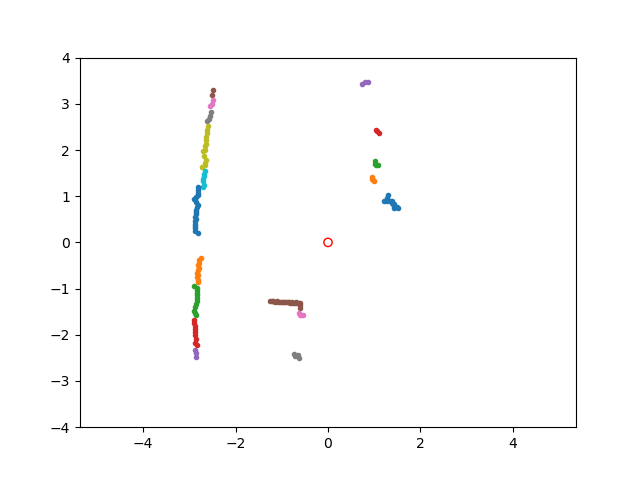
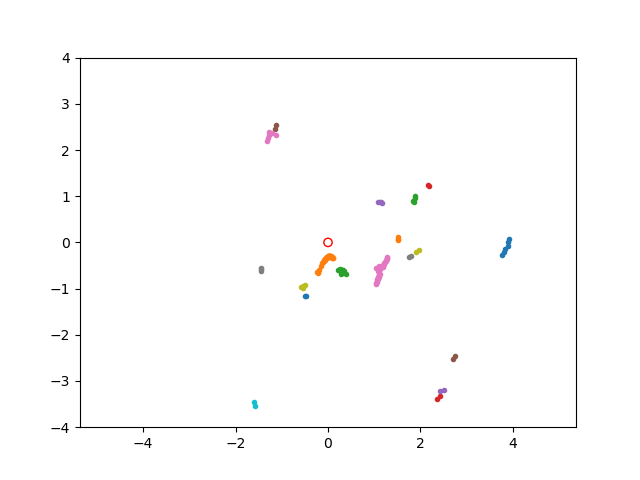
🫨

diff --git a/src/group31_pkg/src/navigation_node.py b/src/group31_pkg/src/navigation_node.py
@@ -3,7 +3,7 @@ import numpy as np
 import matplotlib.pyplot as plt
 from rclpy.node import Node
 from message_filters import ApproximateTimeSynchronizer, Subscriber
-from avai_messages.msg import Motors, Motor
+from avai_messages.msg import Motors, Motor, Position
 from sensor_msgs.msg import LaserScan
 
 
@@ -17,22 +17,24 @@ class NavigationNode(Node):
         ts = ApproximateTimeSynchronizer([self.motor_subscription, self.lidar_subscription], queue_size=10, slop=0.1)
         ts.registerCallback(self.drive)
         
-        self.position_publisher = self.create_publisher(Motors, '/motor_velocity', 10)
+        self.motor_publisher = self.create_publisher(Motors, '/motor_velocity', 10)
+        
+        self.position_publisher = self.create_publisher(Position, '/position', qos_profile=rclpy.qos.qos_profile_sensor_data)
         
         self.WHEEL_DISTANCE = 160 #mm
         self.WHEEL_RADIUS = 33 #mm
         self.NUM_TICKS = 4096
-        self.LAMBDA = 40
-        self.LAMBDA_TAR = 1.0
+        self.LAMBDA = 10
+        self.LAMBDA_TAR = 2.5
         
-        self.MAX_VELOCITY = 255
+        self.MAX_VELOCITY = 120
         self.TARGET_RADIUS = 25
         self.TARGET_X = 500
         self.TARGET_Y = 0
         
         self.x = 0
         self.y = 0
-        self.phi = np.pi/2
+        self.phi = 0
         
         self.x_all = []
         self.y_all = []
@@ -104,14 +106,16 @@ class NavigationNode(Node):
     
     
     def getVelocity(self, deltaPhi):
-        velocity = (deltaPhi * (self.WHEEL_DISTANCE/2))/16
+        velocity = (deltaPhi * 0.5 * self.WHEEL_DISTANCE)/self.CURRENT_TIME_STEP
         if np.abs(self.LAMBDA) >= self.MAX_VELOCITY:
             return 0
         elif velocity > self.MAX_VELOCITY - self.LAMBDA:
             return self.MAX_VELOCITY - self.LAMBDA
         elif velocity < -self.MAX_VELOCITY + self.LAMBDA:
             return -self.MAX_VELOCITY + self.LAMBDA
-        return velocity
+        
+        self.v_l = max(int(velocity+self.LAMBDA),0)
+        self.v_r = max(int(-velocity+self.LAMBDA),0)
     
        
     def setVelocity(self, v_l, v_r):
@@ -120,10 +124,11 @@ class NavigationNode(Node):
         """
         new_motor_command = Motors()
         new_motor_command.motors = [
-            Motor(position=1, velocity=int(v_l)), 
-            Motor(position=1, velocity=int(v_r))
+            Motor(position=1, velocity=v_l), 
+            Motor(position=1, velocity=v_r)
         ]
-        self.publisher_.publish(new_motor_command)
+        #self.get_logger().info(f'Published velocities')
+        self.motor_publisher.publish(new_motor_command)
 
 
     def updateMovement(self):
@@ -140,27 +145,40 @@ class NavigationNode(Node):
         self.TOTAL_LEFT_MOVED = self.LEFT_MOVED
         left_now_moved = left_now_ticks * ((2*np.pi*self.WHEEL_RADIUS)/self.NUM_TICKS)
         
-        self.phi = (self.phi + (left_now_moved - right_now_moved) / self.WHEEL_DISTANCE) % (2*np.pi)
+        self.phi = (self.phi + (left_now_moved - right_now_moved) / self.WHEEL_DISTANCE)# % (2*np.pi)
         
         c = (left_now_moved + right_now_moved) / 2
         self.x = self.x - c * np.cos(self.phi)
         self.y = self.y + c * np.sin(self.phi)
+        
+        #Publish the current position
+        current_position = Position()
+        current_position.header.stamp = self.get_clock().now().to_msg()
+        current_position.x_position = self.x
+        current_position.y_position = self.y
+        current_position.facing_direction = np.rad2deg(self.phi) % 360
+        
+        #self.get_logger().info(f'Published position')
+        self.position_publisher.publish(current_position)
 
 
     def drive(self, msg_motor, msg_lidar):
         #self.get_logger().info(f'Received synchronized messages')
         
         if self.counter == 0:
-            self.TOTAL_LEFT_MOVED, self.TOTAL_RIGHT_MOVED = msg_motor.motors[0].position, msg_motor.motors[1].position         
+            self.TOTAL_LEFT_MOVED, self.TOTAL_RIGHT_MOVED = msg_motor.motors[0].position, msg_motor.motors[1].position  
+            self.LAST_TIMESTEP = float(str(msg_motor.header.stamp.sec) + '.' + str(msg_motor.header.stamp.nanosec))         
         else:
+            TIMESTEP = float(str(msg_motor.header.stamp.sec) + '.' + str(msg_motor.header.stamp.nanosec))
+            self.CURRENT_TIME_STEP = TIMESTEP - self.LAST_TIMESTEP
+            self.LAST_TIMESTEP = TIMESTEP
+            
             self.ranges = msg_lidar.ranges
             self.getDirection()
             delta_phi = self.f_tar()
-            #delta_phi = self.getDeltaPhi()
-            v = self.getVelocity(delta_phi)
-            #self.setVelocity(v+self.LAMBDA, -v+self.LAMBDA)
-            self.setVelocity(0, 0)
-            
+            self.getVelocity(delta_phi)
+            self.setVelocity(self.v_l, self.v_r)
+            #self.setVelocity(0, 0)
             self.LEFT_MOVED, self.RIGHT_MOVED = msg_motor.motors[0].position, msg_motor.motors[1].position
             self.updateMovement()
             self.x_all.append(self.x)
@@ -172,7 +190,7 @@ class NavigationNode(Node):
                 plt.plot(self.x_all, self.y_all)
                 plt.savefig('test.png')
                 exit()
-            print(f"POSITION: {self.x}, {self.y}. HEADING: {self.phi}, TARGET: {self.psi}, V_L:{v+self.LAMBDA}, V_R:{-v+self.LAMBDA}")
+            print(f"POSITION: {self.x}, {self.y}. HEADING: {self.phi}, TARGET: {self.psi}, V_L:{self.v_l}, V_R:{self.v_r}")
             
         
         self.counter += 1

diff --git a/src/group31_pkg/src/data_fusion.py b/src/group31_pkg/src/data_fusion.py
@@ -4,7 +4,7 @@ import rclpy
 import numpy as np
 import matplotlib.pyplot as plt
 from rclpy.node import Node
-from avai_messages.msg import YoloOutput, BoundingBox, ClusteredLidarData
+from avai_messages.msg import YoloOutput, BoundingBox, ClusteredLidarData, Position
 
 #camera fov:
 FOV = (148, 212)
@@ -15,7 +15,7 @@ class DataFusionNode(Node):
 
         self.clustered_lidar_subscription = self.create_subscription(ClusteredLidarData, "/clusterered_lidar_data", self.clustered_lidar_listener_callback, rclpy.qos.qos_profile_sensor_data)
         self.yolo_output_subscription = self.create_subscription(YoloOutput, "/cone_classification", self.yolo_output_listener_callback, rclpy.qos.qos_profile_sensor_data)
-
+        self.pos_subscription = self.create_subscription(Position, "/position", self.position_listener_callback, rclpy.qos.qos_profile_sensor_data)
 
         self.buffer_size = 100
         self.yolo_msgs = [None] * self.buffer_size
@@ -24,6 +24,11 @@ class DataFusionNode(Node):
         self.cluster_msgs_idx = -1
         self.pos_msgs = [None] * self.buffer_size
         self.pos_msgs_idx = -1
+        
+        self.default_position = Position()
+        self.default_position.x_position=0 # in mm
+        self.default_position.y_position=0 # in mm
+        self.default_position.facing_direction=0 # in degrees
     
 
     def clustered_lidar_listener_callback(self, msg):

diff --git a/src/group31_pkg/src/utils.py b/src/group31_pkg/src/utils.py
@@ -1,3 +1,6 @@
+import numpy as np
+import matplotlib.pyplot
+
 def get_timestamp_as_float(msg):
     return msg.header.stamp.sec + msg.header.stamp.nanosec / 1e9
 
@@ -13,3 +16,18 @@ def is_range_in_range(inner_range, outer_range):
     else:
         # check both borders
         return outer_range[0] <= inner_range[0] and inner_range[1] <= outer_range[1]
+    
+
+
+
+class Map:
+    def __init__(self, size=10*100) -> None:
+        # all distances are in mm
+        self.size = size
+        self.data = np.zeros((size, size)) - 1
+        
+    def plot(self):
+        pass
+
+map = Map()
+print(map.data)
